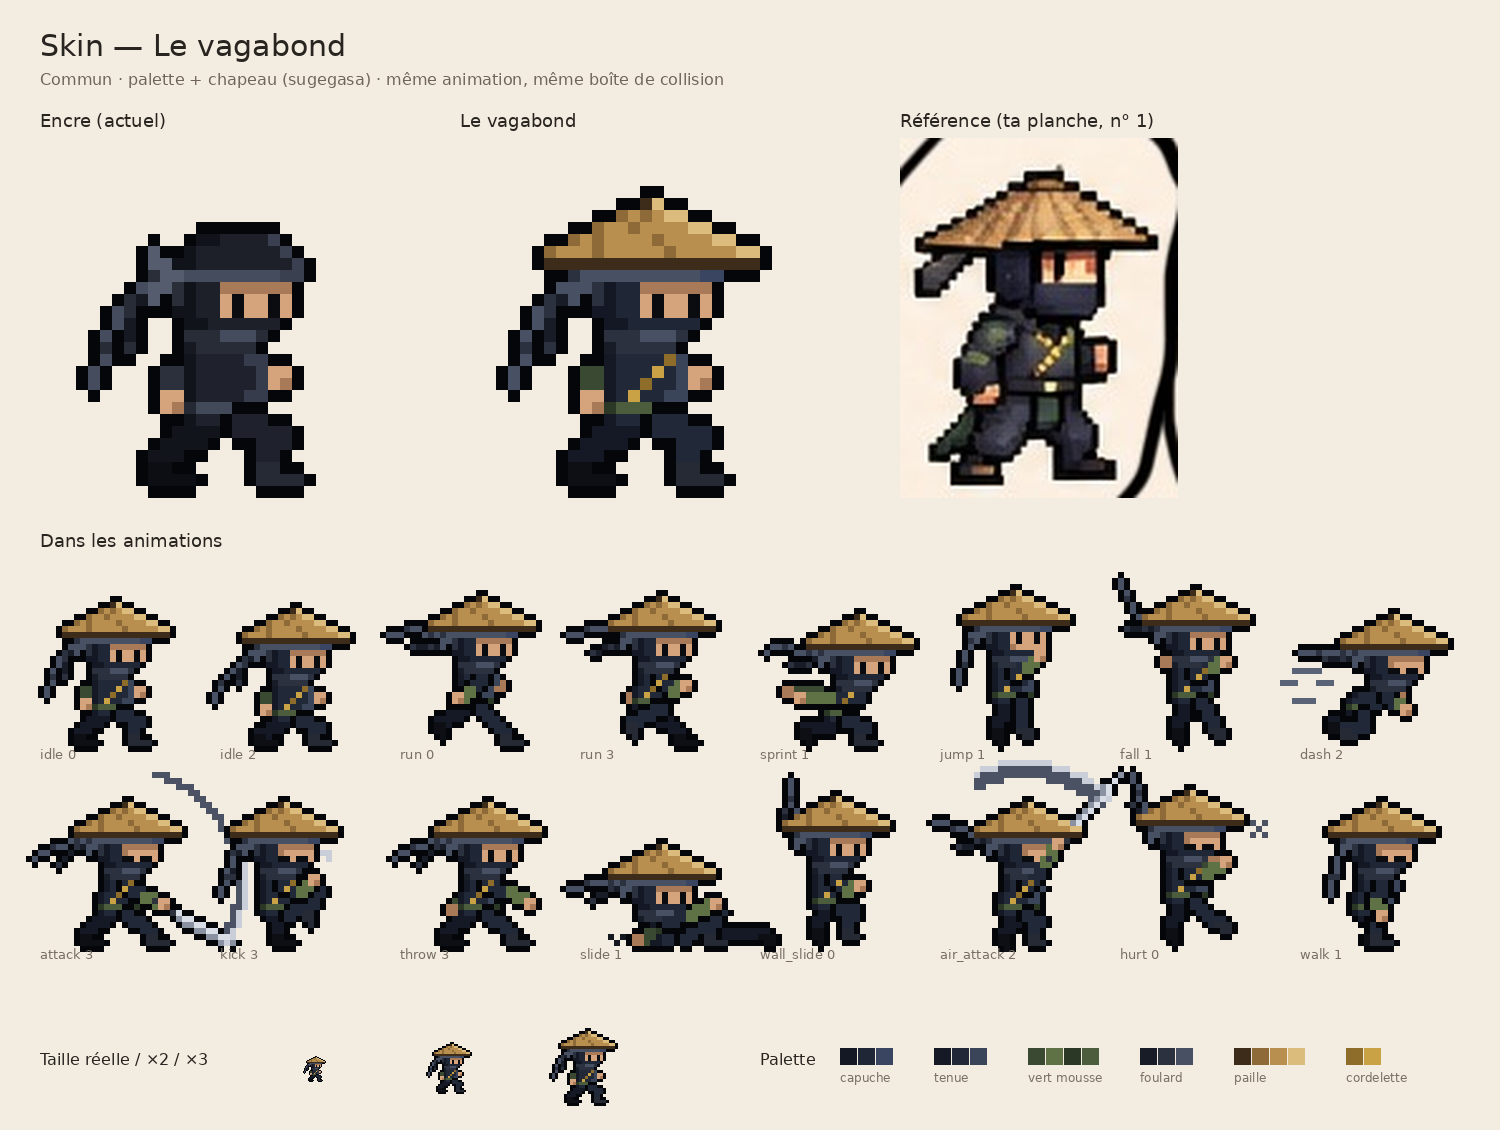
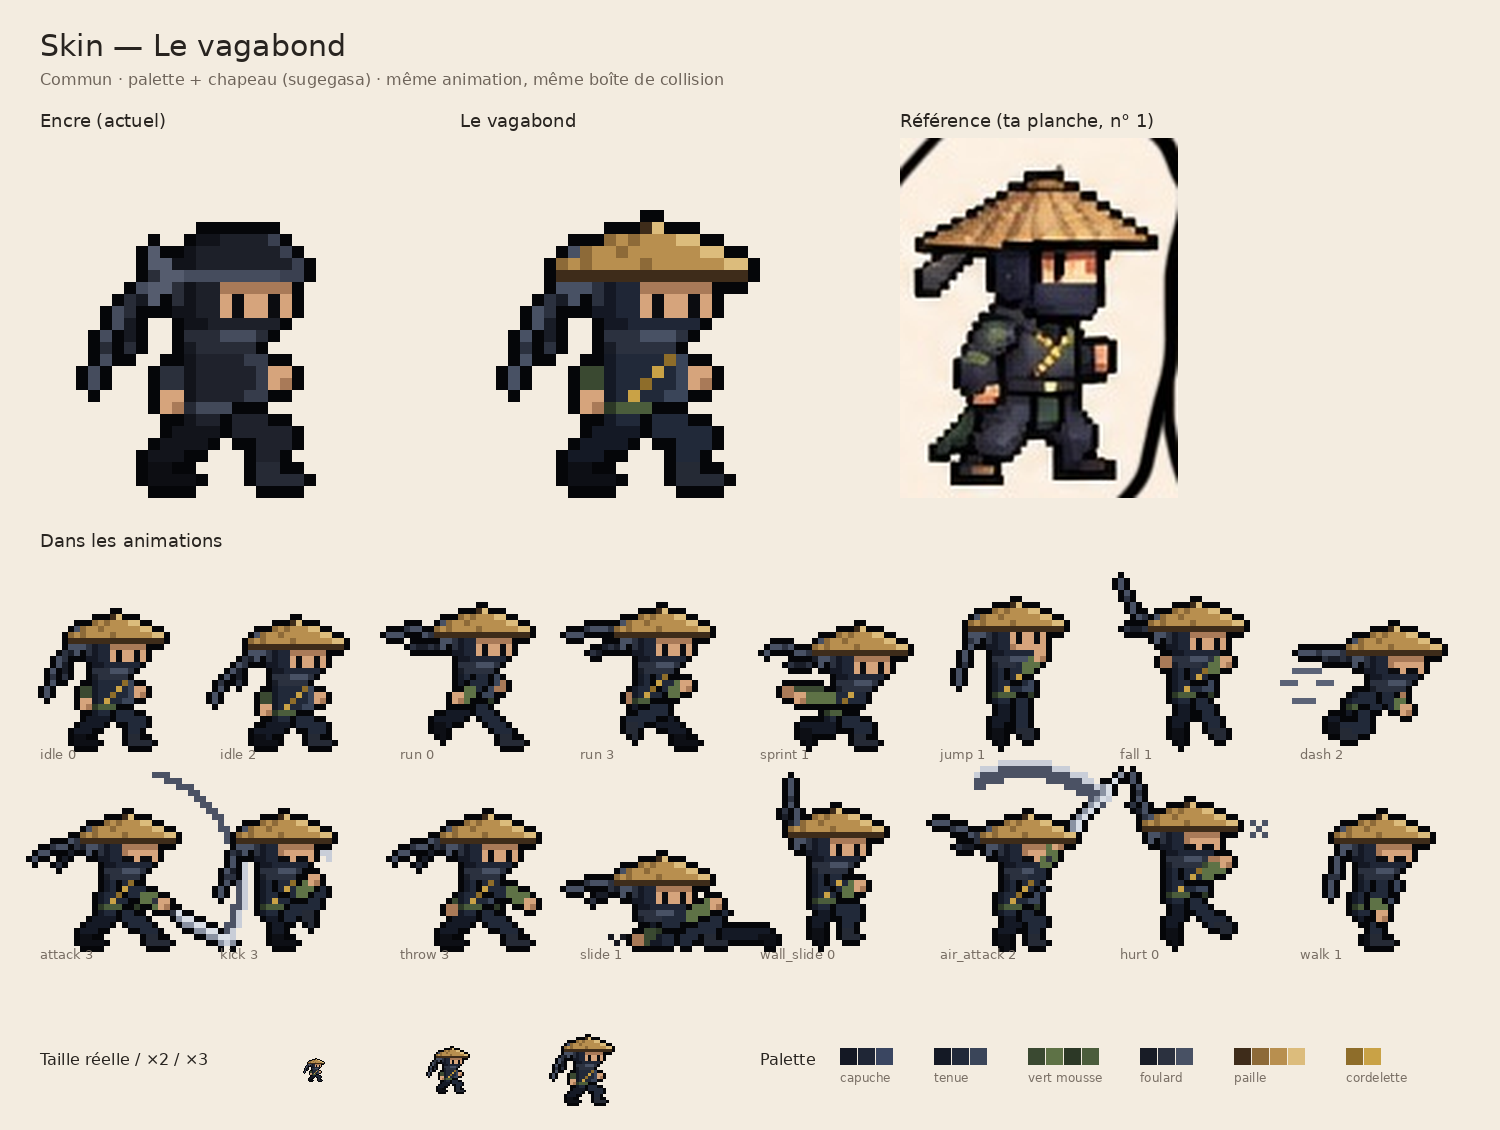
Skin vagabond : chapeau de 16 px, enfoncé sur la tête (le bandeau ne dépasse plus)
Claude-Session: https://claude.ai/code/session_01A2iwx5pvEypuY4LKpvnPNM

diff --git a/tools/kage_forge/skin_board.py b/tools/kage_forge/skin_board.py
@@ -28,13 +28,12 @@ ENCRE = json.loads((ROOT / "assets/characters/kage/skins/encre.json").read_text(
 HATS = {
     # sugegasa : grand chapeau conique de paille, rayons tressés, petite pointe.
     # (dx, dy) = position du coin haut-gauche par rapport à la tête (hx, hy)
-    "sugegasa": dict(dx=-3, dy=-2, text="""
-........rQ........
-......pPpPQQ......
-....pPPpPPPPQQ....
-..pPpPPPPpPPPPQQ..
-pPPPpPPPPPpPPPPPQQ
-rrrrrrrrrrrrrrrrrr
+    "sugegasa": dict(dx=-2, dy=0, text="""
+.......rQ.......
+....pPpPPPQQ....
+..pPPpPPPPPPQQ..
+pPpPPPPpPPPPPPQQ
+rrrrrrrrrrrrrrrr
 """),
 }
 
